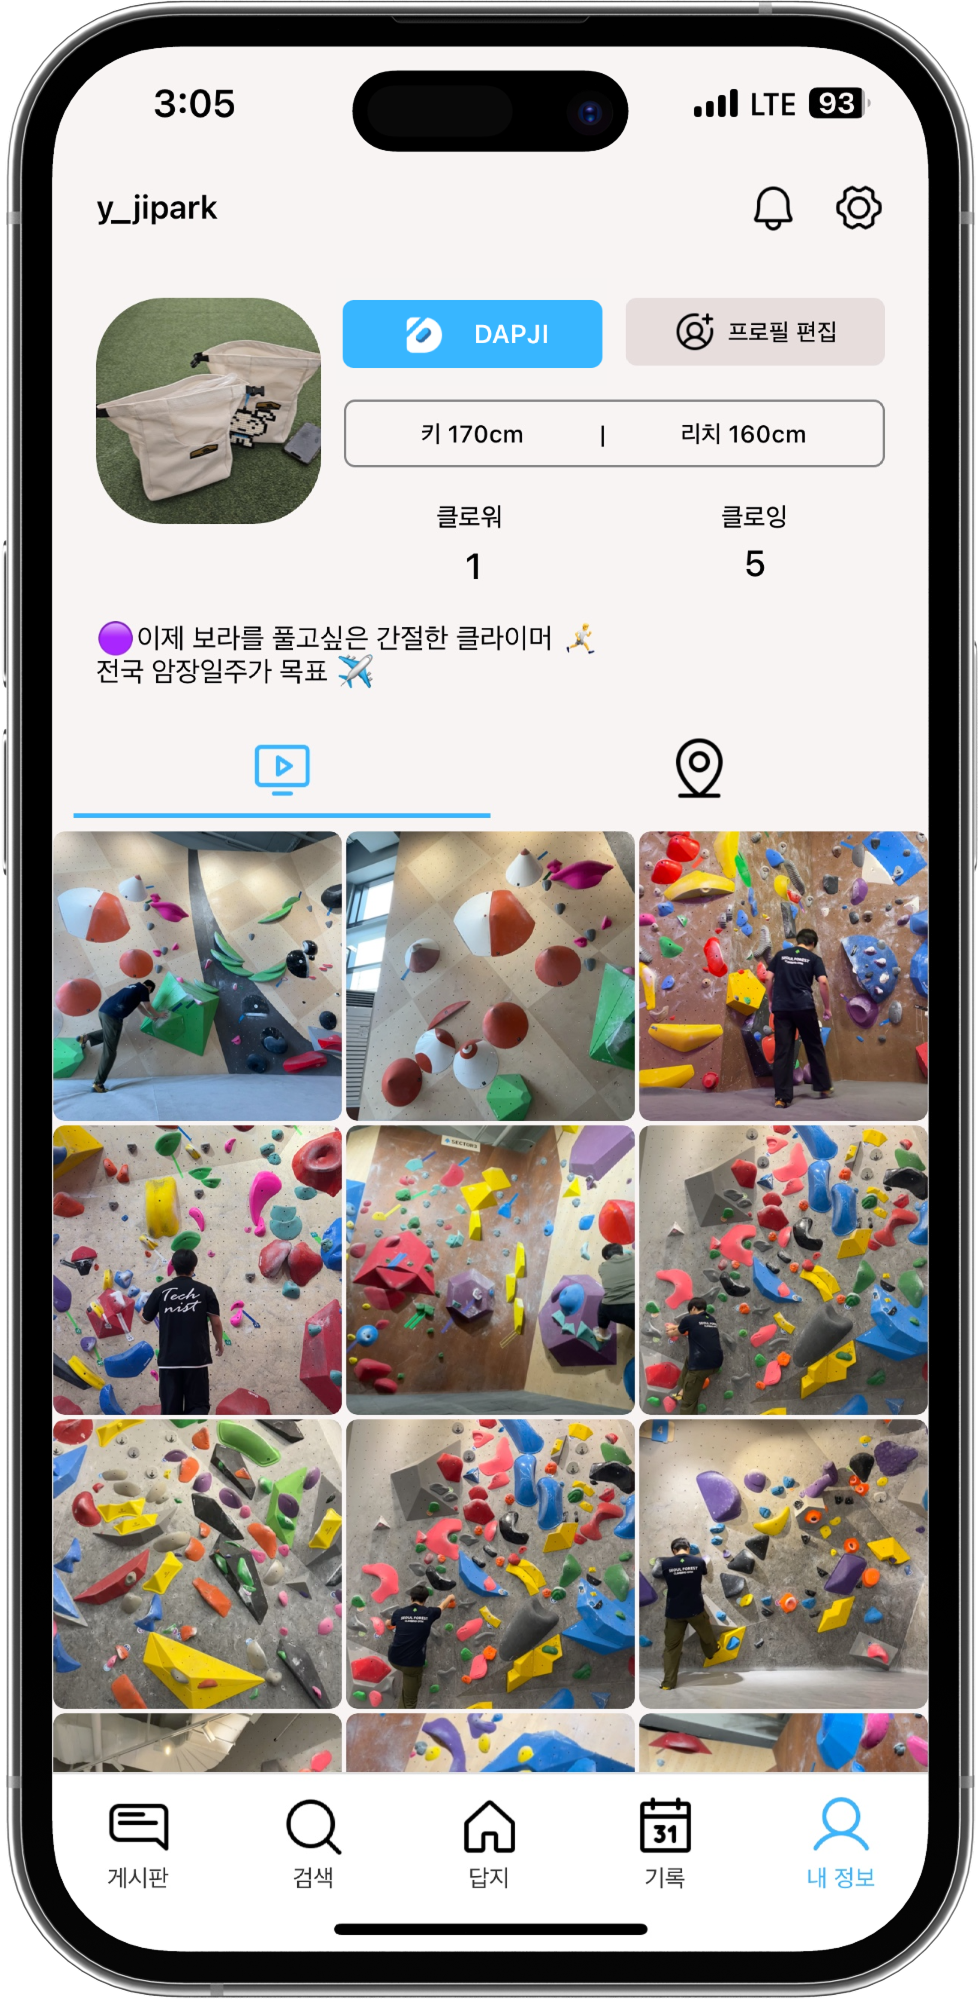
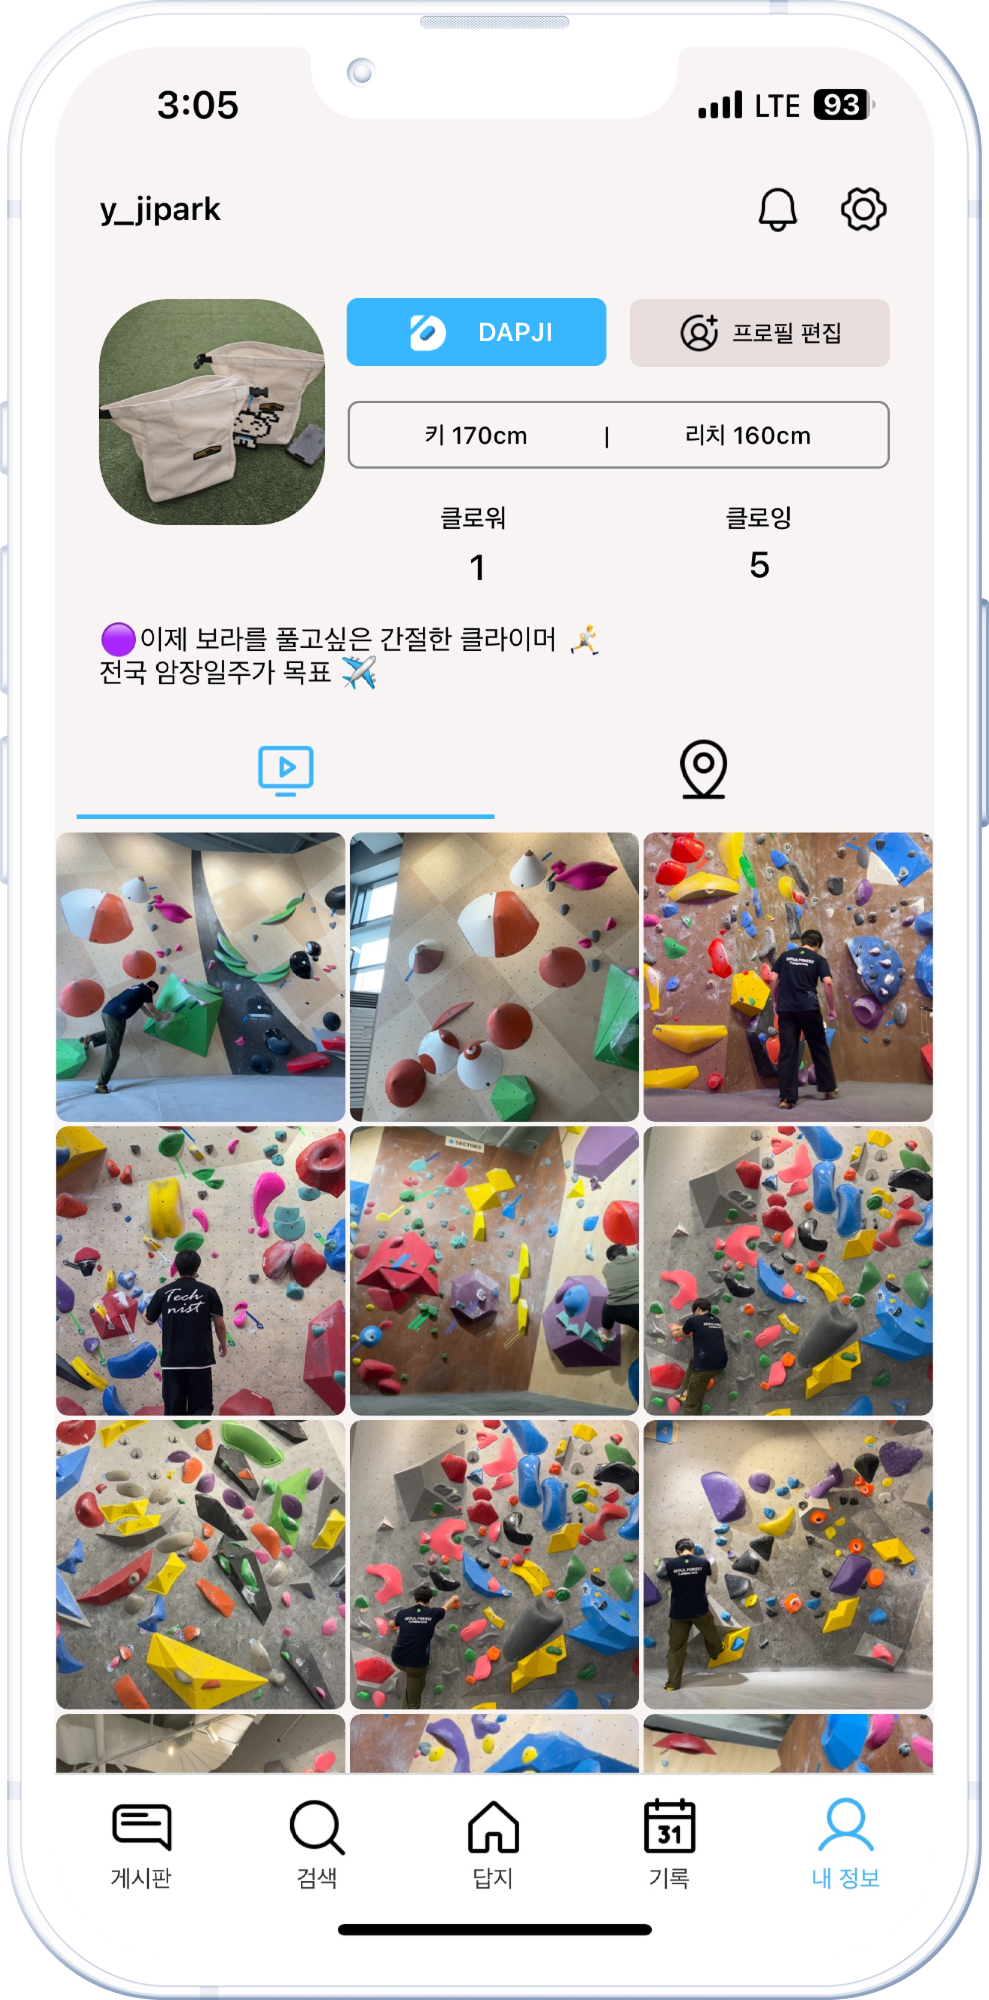
브랜드 섹션 이미지 변경

diff --git a/src/components/landingPage/brandSection/index.tsx b/src/components/landingPage/brandSection/index.tsx
@@ -32,7 +32,7 @@ const BrandSection = () => {
 
       <div className={cn('mockup')}>
         <Image
-          src="/images/mockgymvideo.png"
+          src="/images/mockgymdetail.png"
           alt="앱 이미지 1"
           width={300}
           height={600}

diff --git a/src/components/landingPage/brandSection/brandSection.module.scss b/src/components/landingPage/brandSection/brandSection.module.scss
@@ -97,7 +97,7 @@
         width: 400px;
         height: 800px;
         position: absolute;
-        left: 80px;
+        left: 0;
         top: 150px;
         animation: fadeInUp 1.5s ease-out 0.7s forwards;
         opacity: 0;
